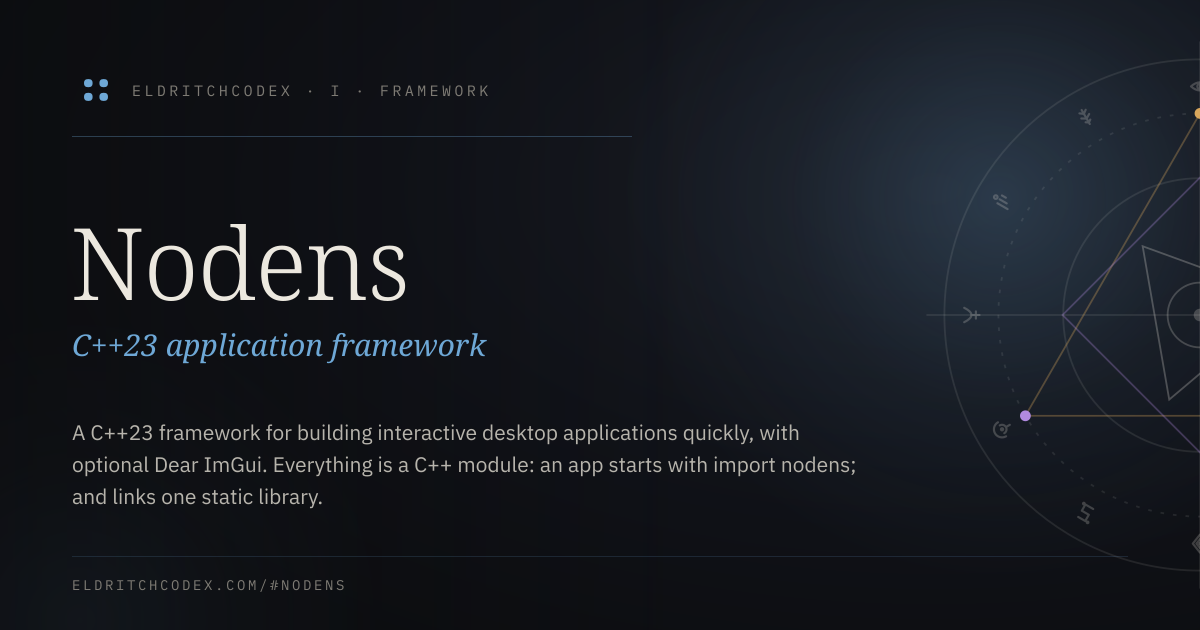
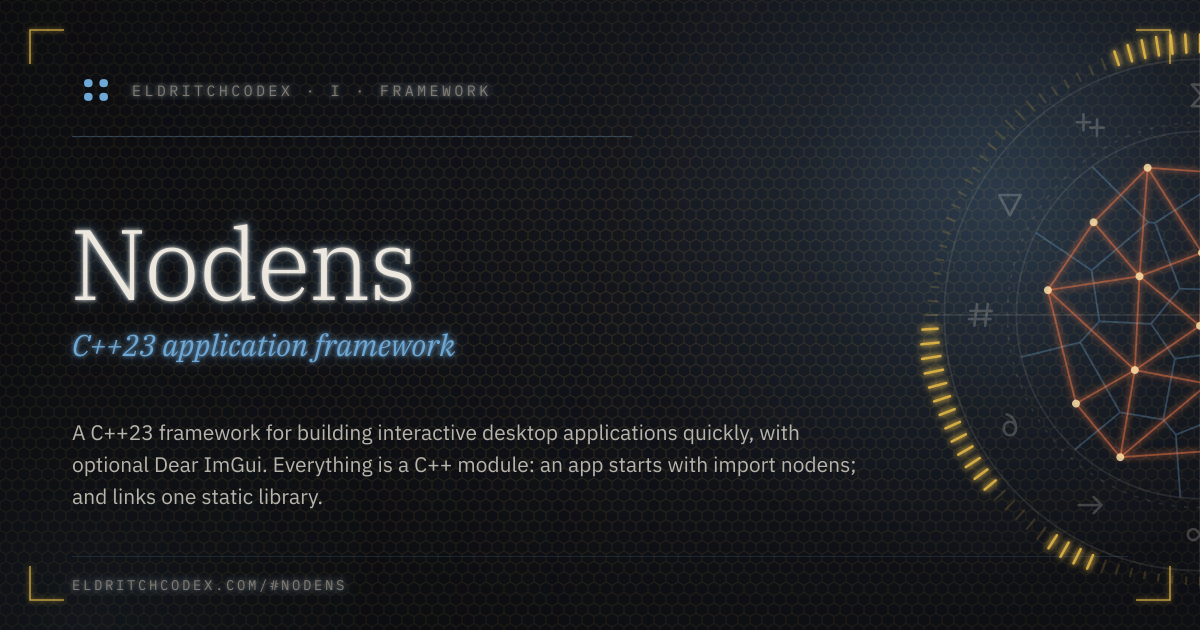
content(site): widen the scope, fix the Armitage examples, restyle the social cards
- Home: new headline and intro (software engineering and mathematics, learning by building); rendering and simulation stay a big part
- Armitage: the agent commands are now `armitage agent ...`; add a "Where it is going" section on plugins; note the CLI works without the agent
- Armitage and home examples: drop the "short mutex" wording, use calls that work, fix paths, line numbers and the Zotero citation, use the 0.6.0 vault path
- Social cards: sync the copy with the pages, add the VFD honeycomb mesh, glow and corner marks
- Drop the Vulkan version from Nyar's copy and card

diff --git a/armitage/index.html b/armitage/index.html
@@ -203,7 +203,7 @@
                         <li><span class="item-idx">Pi</span>
                             <div>
                                 <h4>The agent harness and terminal UI</h4>
-                                <p>Armitage is built on Pi. <code>armitage pi</code> opens Pi with Armitage's own interface: a header board, a status footer and a plan docked above the input. Tool calls fold to one row, <code>ctrl+o</code> expands them, and <code>/prefs</code> changes the role and settings.</p>
+                                <p>Armitage is built on Pi. <code>armitage agent pi</code> opens Pi with Armitage's own interface: a header board, a status footer and a plan docked above the input. Tool calls fold to one row, <code>ctrl+o</code> expands them, and <code>/prefs</code> changes the role and settings.</p>
                             </div>
                         </li>
                         <li><span class="item-idx">Zotero</span>
@@ -231,7 +231,8 @@
                 <div class="sect-body">
                     <h4 class="sub-label">Skills &amp; CLI · core, no Pi or Zed required</h4>
                     <p class="way-note">Instructions for your coding agent, plus a CLI for memory, code and Zotero
-                        search.</p>
+                        search. The CLI works on its own; the agent is a second package that adds Pi, the skills and
+                        <code>ask</code> under <code>armitage agent</code>.</p>
                     <div class="figure">
                         <div class="figure-bar">
                             <span>Example commands</span>
@@ -239,17 +240,17 @@
                         </div>
                         <pre class="shell" data-shell="armitage-cli"></pre>
                     </div>
-                    <h4 class="sub-label">Terminal UI · <code>armitage pi</code> and <code>armitage ask</code> · needs Pi</h4>
+                    <h4 class="sub-label">Terminal UI · <code>armitage agent pi</code> and <code>armitage agent ask</code> · needs Pi</h4>
                     <p class="way-note">A dedicated Pi environment with Armitage's own interface. It powers both the
                         terminal and Zed.</p>
                     <div class="figure">
                         <div class="figure-bar">
-                            <span>$ armitage pi</span>
+                            <span>$ armitage agent pi</span>
                             <span>the terminal UI · illustrative</span>
                         </div>
                         <pre class="tui" role="img" aria-label="Armitage terminal UI: a header board with the memory vault and Zotero collections, your question in its own box with a quiet row for what the harness attached, the agent's work as one-line rows, the cited answer on a tinted card, the plan docked above the input bar, and the footer with role, access, permission, gate, sandbox, reply settings, Zotero and Ollama health and the context bar."><span class="tl"> <span class="ta">◈</span> <span class="ta tbold">armitage</span><span class="tq">  chief librarian of the archives</span></span>
 <span class="tl"> <span class="tq">────────────────────────────────────────────────────────────────────────────</span></span>
-<span class="tl"><span class="tq"> ledger   </span>214 notes<span class="tq"> · </span>3 active plans<span class="tq"> · </span>5 concepts waiting<span class="tq">   ~/.armitage/memory</span></span>
+<span class="tl"><span class="tq"> ledger   </span>214 notes<span class="tq"> · </span>3 active plans<span class="tq"> · </span>5 concepts waiting<span class="tq">   ~/.armitage/agent/memory</span></span>
 <span class="tl"><span class="tq"> archive  </span>9 of 12 collections indexed</span>
 <span class="tl"><span class="tq"> keys     </span>alt+t<span class="tq"> thoughts · </span>/<span class="tq"> commands · </span>/prefs</span>
 <span class="tl"> </span><span class="tblk tmu"> 
@@ -258,22 +259,22 @@
 <span class="tl"> </span>
 <span class="tl"><span class="tq">   <i>deliberating…</i></span></span>
 <span class="tl"> </span>
-<span class="tl"> QueueEvent is the producer entry point. Reading its definition and the thread-safety notes.</span>
+<span class="tl"> The bus has two halves: QueueEvent for producers and Flush for the main thread. Reading both.</span>
 <span class="tl"> </span>
-<span class="tl">   <span class="tg">✓</span> symbol <span class="tq">“QueueEvent”</span>   <span class="tq">→ 1 row  0.4s</span></span>
-<span class="tl">   <span class="tg">✓</span> search <span class="tq">“EventBus thread safety”</span>   <span class="tq">→ 6 rows  1.2s</span></span>
+<span class="tl">   <span class="tg">✓</span> read <span class="tq">“src/Nodens/Events/EventBus.cppm”</span>   <span class="tq">→ 228 lines  0.1s</span></span>
+<span class="tl">   <span class="tg">✓</span> read <span class="tq">“src/Nodens/Events/EventBus.cpp”</span>   <span class="tq">→ 100 lines  0.1s</span></span>
 <span class="tl">   <span class="tg">✓</span> tasks set   <span class="tq">→ 3/3 complete</span></span>
 <span class="tl"> </span><span class="tblk tmc"> 
- Producers never wait for handlers. QueueEvent takes a short mutex, appends the
- event to the active buffer and returns.<span class="tf">[^1]</span> Flush swaps the two buffers under that
- lock, then runs the handlers outside it.<span class="tf">[^2]</span>
+ Producers never wait for handlers. QueueEvent locks the buffer mutex only to append
+ the event to the active buffer, then returns.<span class="tf">[^1]</span> Flush takes that lock only to swap
+ the two buffers, then runs the handlers outside it.<span class="tf">[^2]</span>
  
-<span class="tq"> [^1] Nodens/Events/EventBus.cppm:108</span>
-<span class="tq"> [^2] Nodens/Events/EventBus.cpp:66</span>
+<span class="tq"> [^1] src/Nodens/Events/EventBus.cppm:108</span>
+<span class="tq"> [^2] src/Nodens/Events/EventBus.cpp:66</span>
  </span><span class="tl"> </span>
 <span class="tl"><span class="trule">── Plan 3/3 </span><span class="ta">██████████</span><span class="trule"> ─────────────────────────────────────────── alt+o ──</span></span>
-<span class="tl"> <span class="tg">✓</span> 1. read QueueEvent and its callers</span>
-<span class="tl"> <span class="tg">✓</span> 2. read the thread-safety notes</span>
+<span class="tl"> <span class="tg">✓</span> 1. read the bus's interface and its Flush</span>
+<span class="tl"> <span class="tg">✓</span> 2. check the thread-safety note</span>
 <span class="tl"> <span class="tg">✓</span> 3. answer with the two citations</span>
 <span class="tl"><span class="trule">────────────────────────────────────────────────────────────────────────────────────────────</span></span>
 <span class="tl"><span class="tq"> ~/miskatonic/nodens (main) • EventBus and producers</span>     <span class="tq">deepseek/deepseek-v4.1-flash • high</span></span>
@@ -284,7 +285,7 @@
 <span class="tl">          <span class="c2">■</span> tool definitions 12% 42k   <span class="c3">■</span> user 10% 35k   <span class="c4">■</span> assistant 10% 35k</span>
 <span class="tl">          <span class="c6">■</span> tool calls 6% 21k   <span class="c8">■</span> summaries 2% 7.0k</span></pre>
                     </div>
-                    <h5 class="way-sub">Quick questions with <code>armitage ask</code></h5>
+                    <h5 class="way-sub">Quick questions with <code>armitage agent ask</code></h5>
                     <p class="way-note">The same interface for a one-off question with no project: a short, cited
                         answer from Zotero and memory, using the read-only <code>ask</code> role.</p>
                     <h4 class="sub-label">Zed via custom ACP · needs Pi · the best way</h4>
@@ -302,16 +303,16 @@
                                 <div class="zp-user">Why does Armitage release the reranker after every query?</div>
                                 <div class="zp-tools-list">
                                     <span class="zp-tool"><span class="zp-ico">⌕</span>Recall reranker<span class="zp-chev">›</span></span>
-                                    <span class="zp-tool"><span class="zp-ico">⌕</span>Symbol Reranker.close<span class="zp-chev">›</span></span>
+                                    <span class="zp-tool"><span class="zp-ico">⌕</span>Symbol Reranker<span class="zp-chev">›</span></span>
                                     <span class="zp-tool"><span class="zp-ico">⌕</span>Search · reranker keep_alive<span class="zp-chev">›</span></span>
                                 </div>
                                 <div class="zp-md">
                                     <p>Memory has the answer but marks it stale, so I rechecked it against the docs and code, and it still holds. The reranker is loaded for one query and then released, and the query path unloads the embedding model first, so the two never sit in VRAM together.<sup>1</sup></p>
                                     <p>In code, <code>Reranker</code> is a context manager whose <code>__exit__</code> calls <code>close()</code>.<sup>2</sup> That moves the model off the GPU and empties the CUDA cache.<sup>3</sup></p>
                                     <ol class="zp-refs">
-                                        <li><code>docs/03-retrieval-pipeline.md:207</code></li>
-                                        <li><code>armitage_cli/retriever.py:191</code></li>
-                                        <li><code>armitage_cli/retriever.py:290</code></li>
+                                        <li><code>docs/03-retrieval-pipeline.md:208</code></li>
+                                        <li><code>src/armitage_cli/retriever.py:207</code></li>
+                                        <li><code>src/armitage_cli/retriever.py:302</code></li>
                                     </ol>
                                 </div>
                             </div>
@@ -494,7 +495,7 @@
                         <li><span class="item-idx">Quick questions</span>
                             <div>
                                 <h4 class="role-name">ask</h4>
-                                <p>Short, cited answers from Zotero and memory. <code>armitage ask</code> locks this role.</p>
+                                <p>Short, cited answers from Zotero and memory. <code>armitage agent ask</code> locks this role.</p>
                             </div>
                         </li>
                         <li><span class="item-idx">Research</span>
@@ -577,6 +578,35 @@
                             <div>
                                 <h4>Zotero untouched</h4>
                                 <p>Armitage never writes to Zotero. The one opt-in OCR option rewrites a PDF and keeps the original.</p>
+                            </div>
+                        </li>
+                    </ul>
+                </div>
+            </section>
+
+            <section class="sect">
+                <div class="sect-intro">
+                    <h3>Where it is going</h3>
+                    <p>Planned, not built yet. The core stays small and other tools plug into it as plugins.</p>
+                </div>
+                <div class="sect-body">
+                    <ul class="items">
+                        <li><span class="item-idx">Tools</span>
+                            <div>
+                                <h4>Standalone, in any language</h4>
+                                <p>A tool is its own app with its own repository and CLI. Tools talk to Armitage only through that CLI and JSON, and none imports another.</p>
+                            </div>
+                        </li>
+                        <li><span class="item-idx">Plugins</span>
+                            <div>
+                                <h4>A manifest, not code</h4>
+                                <p>A tool prints a manifest of the commands the agent may call, and Armitage turns each into an agent tool. A plugin needs no TypeScript and no change to Armitage.</p>
+                            </div>
+                        </li>
+                        <li><span class="item-idx">Reach</span>
+                            <div>
+                                <h4>Opt-in, and you confirm writes</h4>
+                                <p>Each plugin declares how far the agent may go: none, status, read or write. Armitage enforces it, and every action that changes something waits for your confirmation outside the model.</p>
                             </div>
                         </li>
                     </ul>
@@ -717,9 +747,9 @@
 
     <!-- Code & shell templates -->
     <script type="text/plain" id="sh-armitage-cli">
-armitage skills install                  # give your agent the skills
-armitage pi                              # open the terminal UI (TUI)
-armitage ask                             # quick question, no project
+armitage agent install skills            # give your agent the skills
+armitage agent pi                        # open the terminal UI (TUI)
+armitage agent ask                       # quick question, no project
 armitage doctor                          # check installed skills
 armitage search "image creation"         # search all three at once
 armitage memory recall "retrieval"       # what past sessions saved

diff --git a/index.html b/index.html
@@ -39,14 +39,14 @@
     <meta property="og:image:width" content="1200" />
     <meta property="og:image:height" content="630" />
     <meta property="og:image:alt"
-        content="EldritchCodex: exploring the engineering and mathematics of rendering and simulation tools." />
+        content="EldritchCodex: exploring software engineering and mathematics, learning by building." />
     <meta name="twitter:card" content="summary_large_image" />
     <meta name="twitter:title" content="EldritchCodex" />
     <meta name="twitter:description"
         content="Open-source projects by Renan Bomtempo: Nodens, a C++23 application framework; Nyar, a Vulkan renderer; and Armitage, a source-grounded agent." />
     <meta name="twitter:image" content="https://eldritchcodex.com/assets/og-card.png" />
     <meta name="twitter:image:alt"
-        content="EldritchCodex: exploring the engineering and mathematics of rendering and simulation tools." />
+        content="EldritchCodex: exploring software engineering and mathematics, learning by building." />
     <meta name="theme-color" content="#0c0d10">
     <script type="application/ld+json">
     {
@@ -141,13 +141,14 @@
             <div class="cell col-8 hero-copy">
                 <div class="kicker">A project by <a href="https://renanbomtempo.me" target="_blank" rel="noopener">Renan
                         Bomtempo</a></div>
-                <h1><span class="sr-only">EldritchCodex: </span>Exploring the <span class="mono-word">engineering</span>
-                    and <em>mathematics</em><br>of rendering and simulation tools.
+                <h1><span class="sr-only">EldritchCodex: </span>Exploring <span class="mono-word">software engineering</span>
+                    and <em>mathematics</em>,<br>learning by building.
                 </h1>
                 <p>
-                    EldritchCodex is an open-source project where I build what I want to understand: Nodens, a
+                    EldritchCodex is an open-source project where I build what I want to understand and use: Nodens, a
                     C++23 application framework; Nyar, a Vulkan renderer; and Armitage, an agent that keeps my
-                    work grounded in books, documentation and papers. The sources behind all three are in a
+                    work grounded in books, documentation and papers. Rendering and simulation remain a big part;
+                    other tools will be built on the same foundations. The sources behind all three are in a
                     <a href="https://www.zotero.org/groups/6489354/eldritchcodex" target="_blank" rel="noopener">public Zotero library</a>.
                 </p>
             </div>
@@ -506,20 +507,17 @@
                                         <div class="zed-agent">
                                             <span class="zed-role">Armitage</span>
                                             <ul class="zed-tools">
-                                                <li><code>armitage code symbol QueueEvent</code><span>1
-                                                        definition</span>
-                                                </li>
-                                                <li><code>armitage code symbol EventBus::Flush</code><span>1
-                                                        definition</span></li>
-                                                <li><code>armitage search "EventBus thread safety"</code><span>3
-                                                        passages</span></li>
+                                                <li><code>read src/Nodens/Events/EventBus.cppm</code><span>228
+                                                        lines</span></li>
+                                                <li><code>read src/Nodens/Events/EventBus.cpp</code><span>100
+                                                        lines</span></li>
                                             </ul>
-                                            <p>Producers never wait for handlers. <code>QueueEvent</code> takes a short
-                                                mutex, appends the event's bytes to the active write buffer and
-                                                returns.<sup class="zed-fn">1</sup> <code>Flush()</code> holds that
-                                                mutex only to
-                                                swap the two buffers, then runs the handlers on the retired buffer
-                                                outside
+                                            <p>Producers never wait for handlers. <code>QueueEvent</code> locks the buffer
+                                                mutex only long enough to append the event's bytes to the active
+                                                write buffer, then returns.<sup class="zed-fn">1</sup>
+                                                <code>Flush()</code> takes the same mutex only to
+                                                swap the two buffers, then runs the handlers on the buffer it swapped
+                                                out, outside
                                                 the lock.<sup class="zed-fn">2</sup> <code>Subscribe</code>,
                                                 <code>Unsubscribe</code> and <code>QueueEvent</code> may be called from
                                                 any
@@ -527,17 +525,17 @@
                                                 main
                                                 thread.<sup class="zed-fn">3</sup>
                                             </p>
-                                            <p><strong>Unsourced.</strong> How the single buffer mutex behaves under
+                                            <p><strong>Unsourced.</strong> How the buffer mutex behaves under
                                                 heavy
                                                 contention: none of the code, docs or papers searched measure it.</p>
                                             <ol class="zed-notes">
-                                                <li><code>Nodens/Events/EventBus.cppm:108-112</code> · QueueEvent locks
+                                                <li><code>src/Nodens/Events/EventBus.cppm:108-112</code> · QueueEvent locks
                                                     the
                                                     buffer mutex, appends the bytes to the active buffer and returns
                                                 </li>
-                                                <li><code>Nodens/Events/EventBus.cpp:66-69, 95</code> · Flush swaps the
+                                                <li><code>src/Nodens/Events/EventBus.cpp:66-69, 95</code> · Flush swaps the
                                                     buffer index under the lock; handlers run after it is released</li>
-                                                <li><code>Nodens/Events/EventBus.cppm:37-39</code> · thread-safety note
+                                                <li><code>src/Nodens/Events/EventBus.cppm:37-39</code> · thread-safety note
                                                     on
                                                     the class</li>
                                             </ol>
@@ -564,11 +562,11 @@
                                             <span class="zed-role">Armitage</span>
                                             <ul class="zed-tools">
                                                 <li><code>armitage zotero query "image layout transitions and pipeline
-                                                        barriers with synchronization2" -c vulkan</code><span>5 passages
+                                                        barriers with synchronization2" -c VZDLWHB2</code><span>5 passages
                                                         · 2
                                                         sources</span></li>
                                                 <li><code>armitage zotero cite 4YKVG2VK -q
-                                                        "Synchronization2"</code><span>verified · p. 100</span></li>
+                                                        "Synchronization2 keeps the full barrier dependency in one struct"</code><span>verified · p. 103</span></li>
                                             </ul>
                                             <p>The SIGGRAPH 2026 Vulkan slides name three tools. Timeline semaphores let
                                                 one
@@ -586,7 +584,7 @@
                                                 present
                                                 them as less bookkeeping, not as measured speedups.</p>
                                             <ol class="zed-notes">
-                                                <li><code>How to Write a Vulkan Application in 2026 · p. 100</code> ·
+                                                <li><code>How to Write a Vulkan Application in 2026 · pp. 101-104</code> ·
                                                     Potter et al. 2026, SIGGRAPH 2026 (Vulkan Documentation Project,
                                                     free online)</li>
                                                 <li><code>Image Layout Transition · §46.1.14</code> · Khronos Vulkan
@@ -615,7 +613,7 @@
                                             <ul class="zed-tools">
                                                 <li><code>armitage memory recall "reranker"</code><span>2 notes · both
                                                         stale</span></li>
-                                                <li><code>armitage code symbol Reranker.close</code><span>1
+                                                <li><code>armitage code symbol Reranker</code><span>1
                                                         definition</span></li>
                                                 <li><code>armitage search "reranker keep_alive"</code><span>3
                                                         passages</span></li>
@@ -640,16 +638,16 @@
                                                 total:
                                                 the docs bound it but give no measured figure.</p>
                                             <ol class="zed-notes">
-                                                <li><code>docs/03-retrieval-pipeline.md:207-210</code> · bounded VRAM:
+                                                <li><code>docs/03-retrieval-pipeline.md:208-211</code> · bounded VRAM:
                                                     reranker loaded for one query then released, embedding model
                                                     unloaded
                                                 </li>
-                                                <li><code>armitage_cli/retriever.py:191-196</code> · context manager;
+                                                <li><code>src/armitage_cli/retriever.py:203-208</code> · context manager;
                                                     __exit__ calls close()</li>
-                                                <li><code>armitage_cli/retriever.py:290-305</code> · close() frees the
+                                                <li><code>src/armitage_cli/retriever.py:302-317</code> · close() frees the
                                                     model
                                                     and the CUDA cache, then logs the release</li>
-                                                <li><code>armitage_cli/retriever.py:380, 453</code> · embedding call
+                                                <li><code>src/armitage_cli/retriever.py:392, 465</code> · embedding call
                                                     defaults to keep_alive=0</li>
                                             </ol>
                                         </div>

diff --git a/nyar/index.html b/nyar/index.html
@@ -24,12 +24,12 @@
     <title>Nyar · EldritchCodex</title>
     <meta name="author" content="Renan Bomtempo">
     <meta name="description"
-        content="Nyar is a real-time Vulkan 1.3 renderer built as a separate module for Nodens, with Slang shaders compiled to SPIR-V.">
+        content="Nyar is a real-time Vulkan renderer built as a separate module for Nodens, with Slang shaders compiled to SPIR-V.">
     <link rel="canonical" href="https://eldritchcodex.com/nyar/">
     <meta name="robots" content="index, follow, max-image-preview:large">
     <meta property="og:title" content="Nyar · EldritchCodex" />
     <meta property="og:description"
-        content="Nyar is a real-time Vulkan 1.3 renderer built as a separate module for Nodens, with Slang shaders compiled to SPIR-V." />
+        content="Nyar is a real-time Vulkan renderer built as a separate module for Nodens, with Slang shaders compiled to SPIR-V." />
     <meta property="og:url" content="https://eldritchcodex.com/nyar/" />
     <meta property="og:type" content="website" />
     <meta property="og:site_name" content="EldritchCodex" />
@@ -42,7 +42,7 @@
     <meta name="twitter:card" content="summary_large_image" />
     <meta name="twitter:title" content="Nyar · EldritchCodex" />
     <meta name="twitter:description"
-        content="Nyar is a real-time Vulkan 1.3 renderer built as a separate module for Nodens, with Slang shaders compiled to SPIR-V." />
+        content="Nyar is a real-time Vulkan renderer built as a separate module for Nodens, with Slang shaders compiled to SPIR-V." />
     <meta name="twitter:image" content="https://eldritchcodex.com/assets/og-nyar.png" />
     <meta name="twitter:image:alt" content="Nyar, part of EldritchCodex." />
     <meta name="theme-color" content="#0c0d10">

diff --git a/README.md b/README.md
@@ -1,11 +1,11 @@
 # EldritchCodex
 
-The site for [EldritchCodex](https://eldritchcodex.com): open-source projects exploring the engineering and
-mathematics of rendering and simulation tools.
+The site for [EldritchCodex](https://eldritchcodex.com): open-source projects exploring software engineering
+and mathematics and learning by building, from rendering and simulation to the tools around them.
 
 - **[Nodens](nodens/)**: a C++23 application framework built on modules.
-- **[Nyar](nyar/)**: a Vulkan 1.3 renderer, built as a learning exercise for Nodens.
-- **[Armitage](armitage/)**: a source-grounded research and coding agent toolkit.
+- **[Nyar](nyar/)**: a Vulkan renderer, built as a learning exercise for Nodens.
+- **[Armitage](armitage/)**: a source-grounded personal agent and research toolkit, with a small core that other tools plug into.
 
 The sources behind the projects are listed in a [public Zotero library](https://www.zotero.org/groups/6489354/eldritchcodex).
 
